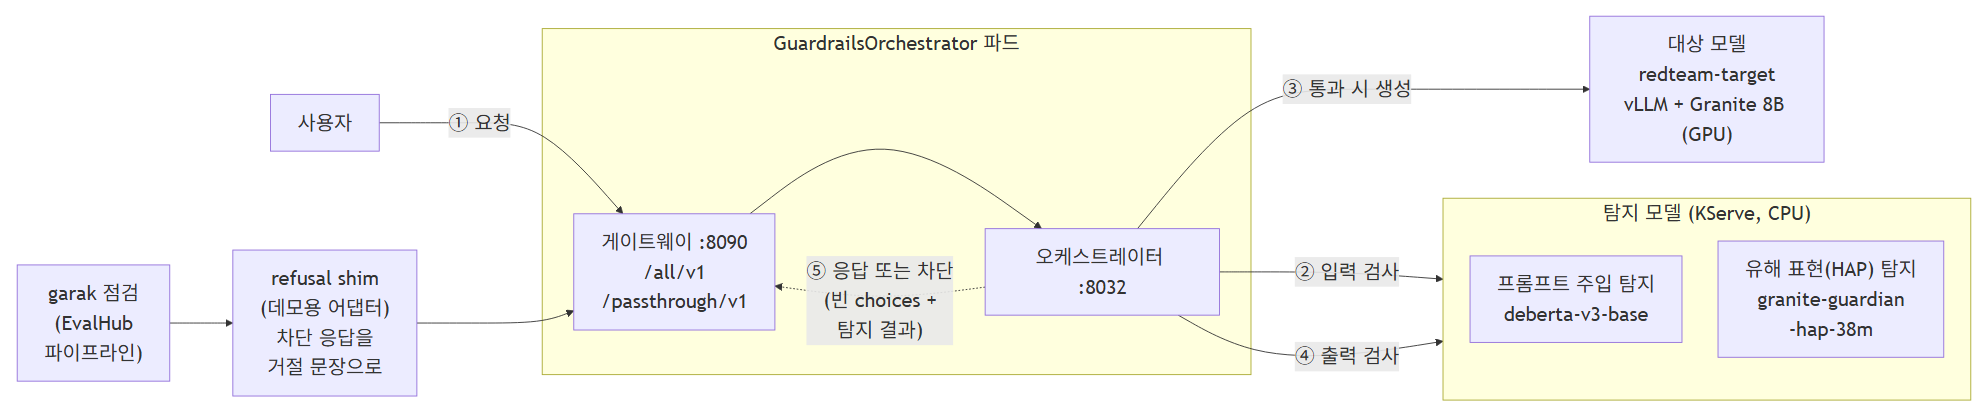
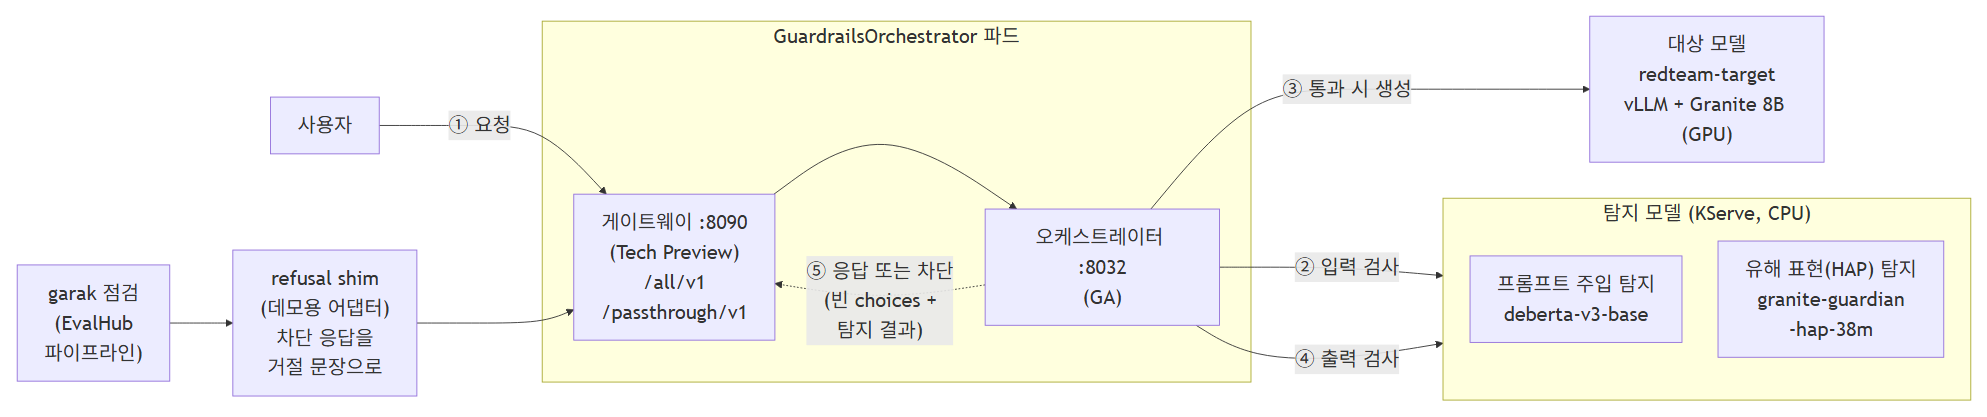
Mark guardrail support levels in scenario 9
The orchestrator is GA; the gateway and built-in regex detector are
Technology Preview per the release notes; the Hugging Face detector
runtime has no stated level. The demo uses the gateway.

diff --git a/scenarios/09-guardrails-before-after.md b/scenarios/09-guardrails-before-after.md
@@ -15,6 +15,14 @@
 | ③④ | 입력이 통과하면 대상 모델이 응답을 생성하고, 오케스트레이터는 응답도 같은 탐지 모델로 검사한다 |
 | ⑤ | 게이트웨이는 응답을 돌려주거나, 차단 시 빈 `choices`와 탐지 결과를 돌려준다 |
 
+| 구성 요소 | 지원 수준 (Red Hat 릴리스 노트) |
+|------|------|
+| Guardrails Orchestrator | GA |
+| 게이트웨이(OpenAI 호환 경로), 내장 정규식 탐지기 | Technology Preview |
+| Hugging Face 탐지기 서빙 런타임 | 릴리스 노트에 명시 없음 |
+
+이 데모는 Technology Preview인 게이트웨이를 사용한다. GA 범위만 쓰려면 클라이언트가 게이트웨이 대신 오케스트레이터 API를 직접 호출해야 한다.
+
 garak 점검은 게이트웨이 앞에 데모용 어댑터(`refusal shim`)를 둔다. 어댑터는 차단 응답을 거절 문장으로 바꿔, garak이 차단을 "방어 성공"으로 집계하게 한다.
 
 | 리소스 | 내용 |
